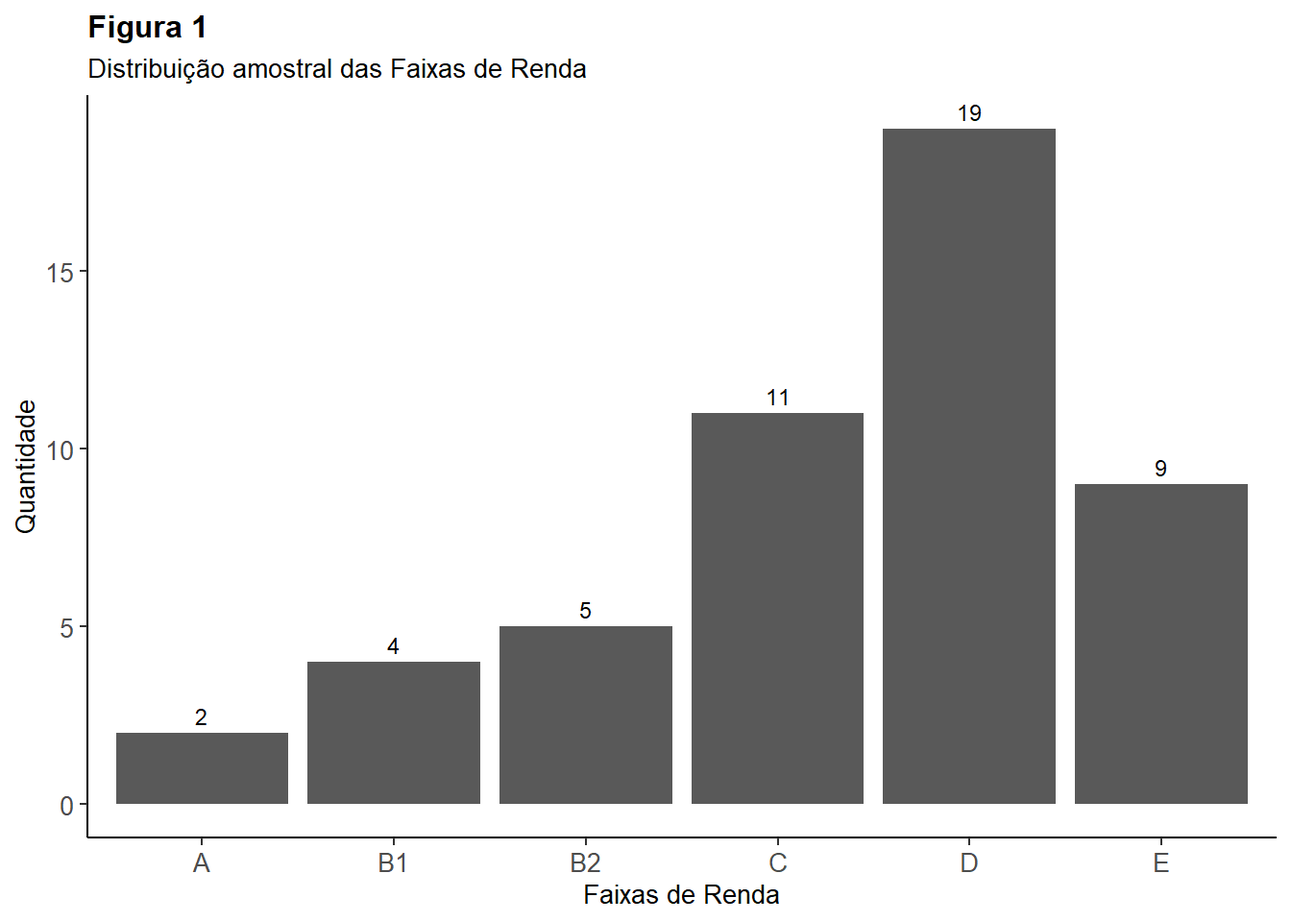
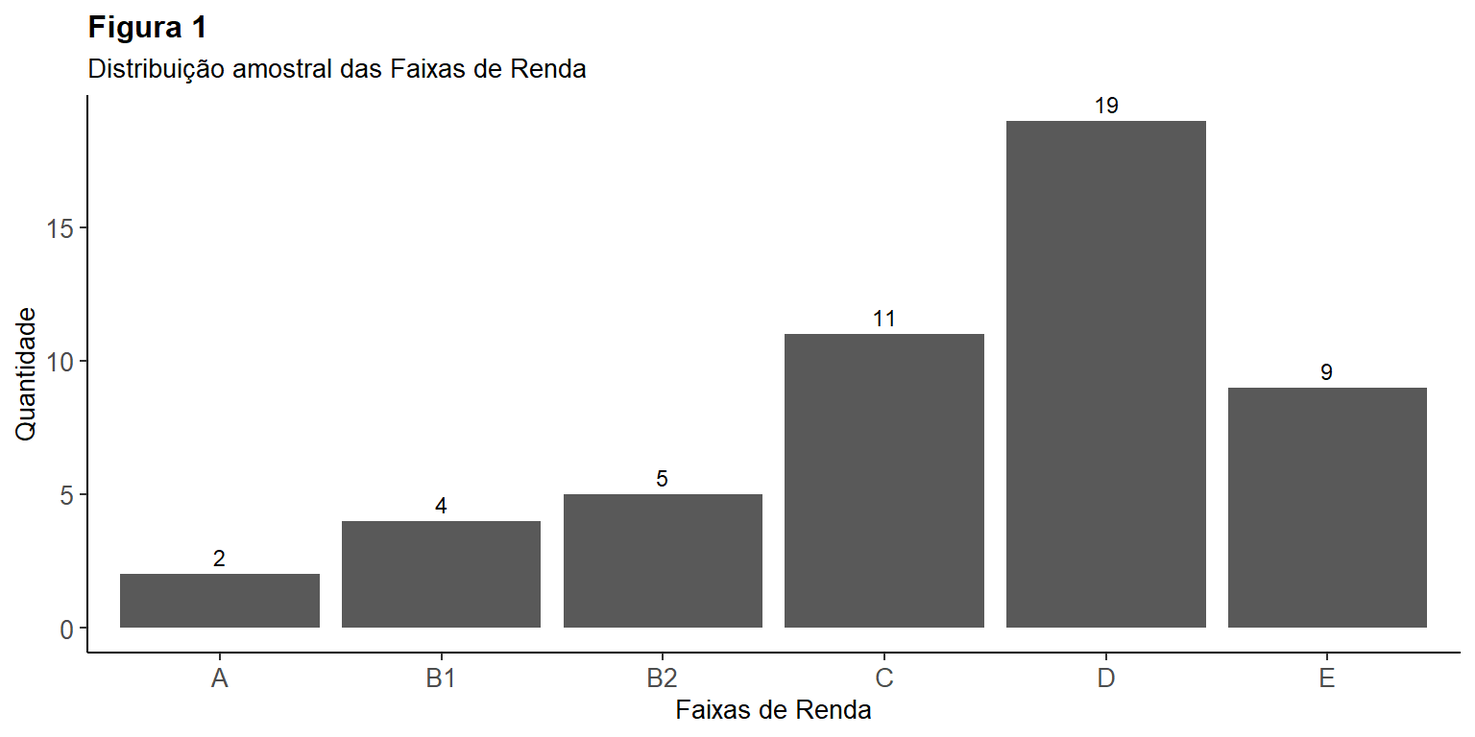
up

diff --git a/introducao_estatistica.html b/introducao_estatistica.html
@@ -128,9 +128,12 @@ code span.wa { color: #60a0b0; font-weight: bold; font-style: italic; } /* Warni
 </header>
 
 <div class="cell">
+<details>
+<summary>Code</summary>
 <div class="sourceCode cell-code" id="cb1"><pre class="sourceCode r code-with-copy"><code class="sourceCode r"><span id="cb1-1"><a href="#cb1-1" aria-hidden="true" tabindex="-1"></a><span class="co"># Instalando pacotes</span></span>
 <span id="cb1-2"><a href="#cb1-2" aria-hidden="true" tabindex="-1"></a><span class="cf">if</span> (<span class="sc">!</span><span class="fu">require</span>(<span class="st">"pacman"</span>)) <span class="fu">install.packages</span>(<span class="st">"pacman"</span>)</span>
-<span id="cb1-3"><a href="#cb1-3" aria-hidden="true" tabindex="-1"></a>pacman<span class="sc">::</span><span class="fu">p_load</span>(tidyverse, here, readxl, janitor, dplyr, magrittr, psych, gt, kableExtra)</span></code><button title="Copy to Clipboard" class="code-copy-button"><i class="bi"></i></button></pre></div>
+<span id="cb1-3"><a href="#cb1-3" aria-hidden="true" tabindex="-1"></a>pacman<span class="sc">::</span><span class="fu">p_load</span>(tidyverse, here, readxl, janitor, dplyr, magrittr, psych, gt, kableExtra, glue, Rlab)</span></code><button title="Copy to Clipboard" class="code-copy-button"><i class="bi"></i></button></pre></div>
+</details>
 </div>
 <section id="lista-de-exercícios" class="level2">
 <h2 class="anchored" data-anchor-id="lista-de-exercícios">Lista de Exercícios</h2>
@@ -139,14 +142,19 @@ code span.wa { color: #60a0b0; font-weight: bold; font-style: italic; } /* Warni
 <li>Na análise de concessão de empréstimos, uma variável potencialmente importante é a renda da pessoa. O gerente de um banco coleta uma base de dados de seus correntistas e extrai a variável “renda mensal (R$)” para 50 pessoas. Embora se trate de uma variável quantitativa, deseja realizar uma análise por meio de tabela de frequências. Neste sentido, pede-se:</li>
 </ol>
 <div class="cell">
+<details>
+<summary>Code</summary>
 <div class="sourceCode cell-code" id="cb2"><pre class="sourceCode r code-with-copy"><code class="sourceCode r"><span id="cb2-1"><a href="#cb2-1" aria-hidden="true" tabindex="-1"></a><span class="co"># Importando o banco</span></span>
 <span id="cb2-2"><a href="#cb2-2" aria-hidden="true" tabindex="-1"></a>path <span class="ot">&lt;-</span> here<span class="sc">::</span><span class="fu">here</span>(<span class="st">"dados"</span>, <span class="st">"Lista de Exercícios - Complementares.xlsx"</span>)</span>
 <span id="cb2-3"><a href="#cb2-3" aria-hidden="true" tabindex="-1"></a>bd1 <span class="ot">&lt;-</span> readxl<span class="sc">::</span><span class="fu">read_excel</span>(path, <span class="at">sheet =</span> <span class="dv">1</span>, <span class="at">range =</span> <span class="fu">cell_cols</span>(<span class="st">"A:B"</span>))</span>
 <span id="cb2-4"><a href="#cb2-4" aria-hidden="true" tabindex="-1"></a>bd1 <span class="ot">&lt;-</span> bd1 <span class="sc">%&gt;%</span> janitor<span class="sc">::</span><span class="fu">clean_names</span>()</span>
 <span id="cb2-5"><a href="#cb2-5" aria-hidden="true" tabindex="-1"></a>bd1 <span class="sc">%&gt;%</span> <span class="fu">glimpse</span>()</span></code><button title="Copy to Clipboard" class="code-copy-button"><i class="bi"></i></button></pre></div>
+</details>
 </div>
 <p>a) Classifique os correntistas em faixas de renda, sendo: 0-2.000; 2.001-4.000; 4.001- 6.000; 6.001-8.000; 8.001-10.000 e 10.001-12.000.</p>
 <div class="cell">
+<details>
+<summary>Code</summary>
 <div class="sourceCode cell-code" id="cb3"><pre class="sourceCode r code-with-copy"><code class="sourceCode r"><span id="cb3-1"><a href="#cb3-1" aria-hidden="true" tabindex="-1"></a>bd1 <span class="ot">&lt;-</span> bd1 <span class="sc">|&gt;</span> </span>
 <span id="cb3-2"><a href="#cb3-2" aria-hidden="true" tabindex="-1"></a>  <span class="fu">mutate</span>(<span class="at">fx_renda =</span> <span class="fu">case_when</span>(</span>
 <span id="cb3-3"><a href="#cb3-3" aria-hidden="true" tabindex="-1"></a>  renda_r <span class="sc">&lt;=</span> <span class="dv">2000</span> <span class="sc">~</span> <span class="st">"E"</span>,</span>
@@ -157,9 +165,12 @@ code span.wa { color: #60a0b0; font-weight: bold; font-style: italic; } /* Warni
 <span id="cb3-8"><a href="#cb3-8" aria-hidden="true" tabindex="-1"></a>  T <span class="sc">~</span> <span class="st">"A"</span></span>
 <span id="cb3-9"><a href="#cb3-9" aria-hidden="true" tabindex="-1"></a>))</span>
 <span id="cb3-10"><a href="#cb3-10" aria-hidden="true" tabindex="-1"></a>bd1 <span class="sc">|&gt;</span> <span class="fu">glimpse</span>()</span></code><button title="Copy to Clipboard" class="code-copy-button"><i class="bi"></i></button></pre></div>
+</details>
 </div>
 <p>b) Em seguida, elabore a tabela de frequências para as faixas de renda acima.</p>
 <div class="cell">
+<details>
+<summary>Code</summary>
 <div class="sourceCode cell-code" id="cb4"><pre class="sourceCode r code-with-copy"><code class="sourceCode r"><span id="cb4-1"><a href="#cb4-1" aria-hidden="true" tabindex="-1"></a>bd1 <span class="sc">|&gt;</span> <span class="fu">group_by</span>(fx_renda) <span class="sc">|&gt;</span></span>
 <span id="cb4-2"><a href="#cb4-2" aria-hidden="true" tabindex="-1"></a>  <span class="fu">summarise</span>(<span class="at">total =</span> <span class="fu">n</span>()) <span class="sc">|&gt;</span> </span>
 <span id="cb4-3"><a href="#cb4-3" aria-hidden="true" tabindex="-1"></a>  ggplot2<span class="sc">::</span><span class="fu">ggplot</span>(<span class="fu">aes</span>(fx_renda, total)) <span class="sc">+</span> </span>
@@ -175,20 +186,26 @@ code span.wa { color: #60a0b0; font-weight: bold; font-style: italic; } /* Warni
 <span id="cb4-13"><a href="#cb4-13" aria-hidden="true" tabindex="-1"></a>  <span class="fu">ggtitle</span>(<span class="at">label =</span> <span class="st">"Figura 1"</span>, <span class="at">subtitle =</span> <span class="st">"Distribuição amostral das Faixas de Renda"</span>) <span class="sc">+</span></span>
 <span id="cb4-14"><a href="#cb4-14" aria-hidden="true" tabindex="-1"></a>  <span class="fu">ylab</span>(<span class="st">"Quantidade"</span>) <span class="sc">+</span> </span>
 <span id="cb4-15"><a href="#cb4-15" aria-hidden="true" tabindex="-1"></a>  <span class="fu">xlab</span>(<span class="st">"Faixas de Renda"</span>)</span></code><button title="Copy to Clipboard" class="code-copy-button"><i class="bi"></i></button></pre></div>
+</details>
 <div class="cell-output-display">
-<p><img src="introducao_estatistica_files/figure-html/ex1_b-1.png" class="img-fluid" width="672"></p>
+<p><img src="introducao_estatistica_files/figure-html/ex1_b-1.png" class="img-fluid" width="768"></p>
 </div>
 </div>
 <p>2.Um analista do mercado acionário coletou os retornos mensais de duas ações que pretende indicar aos seus clientes. Calcule as estatísticas descritivas para as duas variáveis, incluindo o coeficiente de correlação entre os retornos. O banco de dados com os retornos percentuais mensais está na planilha Lista de Exercício Complementares: aba Exercício 2.</p>
 <p>Estatísticas descritivas: média, mediana, moda, quartis, decis, valor mínimo, valor máximo, amplitude, variância, desvio padrão, erro padrão, coeficiente de variação</p>
 <div class="cell">
+<details>
+<summary>Code</summary>
 <div class="sourceCode cell-code" id="cb5"><pre class="sourceCode r code-with-copy"><code class="sourceCode r"><span id="cb5-1"><a href="#cb5-1" aria-hidden="true" tabindex="-1"></a><span class="co"># Importando o banco</span></span>
 <span id="cb5-2"><a href="#cb5-2" aria-hidden="true" tabindex="-1"></a>path <span class="ot">&lt;-</span> here<span class="sc">::</span><span class="fu">here</span>(<span class="st">"dados"</span>, <span class="st">"Lista de Exercícios - Complementares.xlsx"</span>)</span>
 <span id="cb5-3"><a href="#cb5-3" aria-hidden="true" tabindex="-1"></a>bd2 <span class="ot">&lt;-</span> readxl<span class="sc">::</span><span class="fu">read_excel</span>(path, <span class="at">sheet =</span> <span class="dv">2</span>, <span class="at">range =</span> <span class="fu">cell_cols</span>(<span class="st">"A:C"</span>))</span>
 <span id="cb5-4"><a href="#cb5-4" aria-hidden="true" tabindex="-1"></a>bd2 <span class="ot">&lt;-</span> bd2 <span class="sc">%&gt;%</span> janitor<span class="sc">::</span><span class="fu">clean_names</span>()</span>
 <span id="cb5-5"><a href="#cb5-5" aria-hidden="true" tabindex="-1"></a>bd2 <span class="sc">%&gt;%</span> <span class="fu">glimpse</span>()</span></code><button title="Copy to Clipboard" class="code-copy-button"><i class="bi"></i></button></pre></div>
+</details>
 </div>
 <div class="cell">
+<details>
+<summary>Code</summary>
 <div class="sourceCode cell-code" id="cb6"><pre class="sourceCode r code-with-copy"><code class="sourceCode r"><span id="cb6-1"><a href="#cb6-1" aria-hidden="true" tabindex="-1"></a>mode_test <span class="ot">&lt;-</span> <span class="cf">function</span>(x) {</span>
 <span id="cb6-2"><a href="#cb6-2" aria-hidden="true" tabindex="-1"></a>  d <span class="ot">&lt;-</span> <span class="fu">density</span>(x)</span>
 <span id="cb6-3"><a href="#cb6-3" aria-hidden="true" tabindex="-1"></a>  d<span class="sc">$</span>x[<span class="fu">which.max</span>(d<span class="sc">$</span>y)]</span>
@@ -231,31 +248,30 @@ code span.wa { color: #60a0b0; font-weight: bold; font-style: italic; } /* Warni
 <span id="cb6-40"><a href="#cb6-40" aria-hidden="true" tabindex="-1"></a>                                           <span class="st">"intervalo.60%"</span>, <span class="st">"intervalo.70%"</span>, <span class="st">"intervalo.75%"</span>,</span>
 <span id="cb6-41"><a href="#cb6-41" aria-hidden="true" tabindex="-1"></a>                                           <span class="st">"intervalo.80%"</span>, <span class="st">"intervalo.90%"</span>, <span class="st">"intervalo.95%"</span>)))</span>
 <span id="cb6-42"><a href="#cb6-42" aria-hidden="true" tabindex="-1"></a></span>
-<span id="cb6-43"><a href="#cb6-43" aria-hidden="true" tabindex="-1"></a>bd2<span class="fl">.2</span> <span class="sc">|&gt;</span> <span class="fu">mutate</span>(<span class="at">ref =</span> <span class="fu">case_when</span>(</span>
-<span id="cb6-44"><a href="#cb6-44" aria-hidden="true" tabindex="-1"></a>  Valor <span class="sc">&gt;=</span> <span class="dv">0</span> <span class="sc">~</span> <span class="st">"Positivo"</span>,</span>
-<span id="cb6-45"><a href="#cb6-45" aria-hidden="true" tabindex="-1"></a>  Valor <span class="sc">&lt;</span> <span class="dv">0</span> <span class="sc">~</span> <span class="st">"Negativo"</span></span>
-<span id="cb6-46"><a href="#cb6-46" aria-hidden="true" tabindex="-1"></a>)) <span class="sc">|&gt;</span> </span>
-<span id="cb6-47"><a href="#cb6-47" aria-hidden="true" tabindex="-1"></a>  <span class="fu">mutate</span>(<span class="at">acao =</span> <span class="fu">case_when</span>(</span>
-<span id="cb6-48"><a href="#cb6-48" aria-hidden="true" tabindex="-1"></a>  <span class="st">`</span><span class="at">Ação</span><span class="st">`</span> <span class="sc">==</span> <span class="st">"acao_1"</span> <span class="sc">~</span> <span class="st">"Ação 1"</span>,</span>
-<span id="cb6-49"><a href="#cb6-49" aria-hidden="true" tabindex="-1"></a>  <span class="st">`</span><span class="at">Ação</span><span class="st">`</span> <span class="sc">==</span> <span class="st">"acao_2"</span> <span class="sc">~</span> <span class="st">"Ação 2"</span></span>
-<span id="cb6-50"><a href="#cb6-50" aria-hidden="true" tabindex="-1"></a>)) <span class="sc">|&gt;</span> </span>
-<span id="cb6-51"><a href="#cb6-51" aria-hidden="true" tabindex="-1"></a>  ggplot2<span class="sc">::</span><span class="fu">ggplot</span>(<span class="fu">aes</span>(acao, Valor, <span class="at">fill =</span> ref)) <span class="sc">+</span></span>
-<span id="cb6-52"><a href="#cb6-52" aria-hidden="true" tabindex="-1"></a>  <span class="fu">geom_col</span>() <span class="sc">+</span></span>
-<span id="cb6-53"><a href="#cb6-53" aria-hidden="true" tabindex="-1"></a>  <span class="fu">scale_fill_manual</span>(<span class="at">name =</span> <span class="st">"Direção"</span>, <span class="at">values=</span><span class="fu">c</span>(<span class="st">"#f46d43"</span>, <span class="st">"#74add1"</span>)) <span class="sc">+</span></span>
-<span id="cb6-54"><a href="#cb6-54" aria-hidden="true" tabindex="-1"></a>  <span class="fu">facet_wrap</span>(<span class="sc">~</span>(var), <span class="at">scales =</span> <span class="st">"free"</span>, <span class="at">ncol =</span> <span class="dv">5</span>) <span class="sc">+</span></span>
-<span id="cb6-55"><a href="#cb6-55" aria-hidden="true" tabindex="-1"></a>  <span class="fu">theme_bw</span>() <span class="sc">+</span></span>
-<span id="cb6-56"><a href="#cb6-56" aria-hidden="true" tabindex="-1"></a>  <span class="fu">theme</span>(<span class="at">legend.position =</span> <span class="st">"bottom"</span>) <span class="sc">+</span></span>
-<span id="cb6-57"><a href="#cb6-57" aria-hidden="true" tabindex="-1"></a>  <span class="co">#geom_text(aes(label = Valor), size = 2.5)+ </span></span>
-<span id="cb6-58"><a href="#cb6-58" aria-hidden="true" tabindex="-1"></a>  <span class="fu">coord_flip</span>()</span></code><button title="Copy to Clipboard" class="code-copy-button"><i class="bi"></i></button></pre></div>
-<div class="cell-output-display">
-<p><img src="introducao_estatistica_files/figure-html/ex2_a-1.png" class="img-fluid" style="width:100.0%"></p>
-</div>
-<div class="sourceCode cell-code" id="cb7"><pre class="sourceCode r code-with-copy"><code class="sourceCode r"><span id="cb7-1"><a href="#cb7-1" aria-hidden="true" tabindex="-1"></a><span class="co"># bd2.2 |&gt; glimpse()</span></span>
-<span id="cb7-2"><a href="#cb7-2" aria-hidden="true" tabindex="-1"></a></span>
-<span id="cb7-3"><a href="#cb7-3" aria-hidden="true" tabindex="-1"></a><span class="co"># Plotando a tabela</span></span>
-<span id="cb7-4"><a href="#cb7-4" aria-hidden="true" tabindex="-1"></a>table2 <span class="sc">|&gt;</span> <span class="fu">select</span>(<span class="sc">-</span><span class="dv">1</span>) <span class="sc">|&gt;</span> kableExtra<span class="sc">::</span><span class="fu">kbl</span>(<span class="at">caption =</span> <span class="st">"Estatísticas Descritivas Ex. 2"</span>,</span>
-<span id="cb7-5"><a href="#cb7-5" aria-hidden="true" tabindex="-1"></a>                                        <span class="at">col.names =</span> <span class="fu">c</span>(<span class="st">"Ação 1"</span>, <span class="st">"Ação 2"</span>)) <span class="sc">%&gt;%</span></span>
-<span id="cb7-6"><a href="#cb7-6" aria-hidden="true" tabindex="-1"></a>  kableExtra<span class="sc">::</span><span class="fu">kable_classic</span>(<span class="at">full_width =</span> F, <span class="at">html_font =</span> <span class="st">"Cambria"</span>)</span></code><button title="Copy to Clipboard" class="code-copy-button"><i class="bi"></i></button></pre></div>
+<span id="cb6-43"><a href="#cb6-43" aria-hidden="true" tabindex="-1"></a><span class="co"># bd2.2 |&gt; mutate(ref = case_when(</span></span>
+<span id="cb6-44"><a href="#cb6-44" aria-hidden="true" tabindex="-1"></a><span class="co">#   Valor &gt;= 0 ~ "Positivo",</span></span>
+<span id="cb6-45"><a href="#cb6-45" aria-hidden="true" tabindex="-1"></a><span class="co">#   Valor &lt; 0 ~ "Negativo"</span></span>
+<span id="cb6-46"><a href="#cb6-46" aria-hidden="true" tabindex="-1"></a><span class="co"># )) |&gt; </span></span>
+<span id="cb6-47"><a href="#cb6-47" aria-hidden="true" tabindex="-1"></a><span class="co">#   mutate(acao = case_when(</span></span>
+<span id="cb6-48"><a href="#cb6-48" aria-hidden="true" tabindex="-1"></a><span class="co">#   `Ação` == "acao_1" ~ "Ação 1",</span></span>
+<span id="cb6-49"><a href="#cb6-49" aria-hidden="true" tabindex="-1"></a><span class="co">#   `Ação` == "acao_2" ~ "Ação 2"</span></span>
+<span id="cb6-50"><a href="#cb6-50" aria-hidden="true" tabindex="-1"></a><span class="co"># )) |&gt; </span></span>
+<span id="cb6-51"><a href="#cb6-51" aria-hidden="true" tabindex="-1"></a><span class="co">#   ggplot2::ggplot(aes(acao, Valor, fill = ref)) +</span></span>
+<span id="cb6-52"><a href="#cb6-52" aria-hidden="true" tabindex="-1"></a><span class="co">#   geom_col() +</span></span>
+<span id="cb6-53"><a href="#cb6-53" aria-hidden="true" tabindex="-1"></a><span class="co">#   scale_fill_manual(name = "Direção", values=c("#f46d43", "#74add1")) +</span></span>
+<span id="cb6-54"><a href="#cb6-54" aria-hidden="true" tabindex="-1"></a><span class="co">#   facet_wrap(~(var), scales = "free", ncol = 5) +</span></span>
+<span id="cb6-55"><a href="#cb6-55" aria-hidden="true" tabindex="-1"></a><span class="co">#   theme_bw() +</span></span>
+<span id="cb6-56"><a href="#cb6-56" aria-hidden="true" tabindex="-1"></a><span class="co">#   theme(legend.position = "bottom") +</span></span>
+<span id="cb6-57"><a href="#cb6-57" aria-hidden="true" tabindex="-1"></a><span class="co">#   coord_flip()</span></span>
+<span id="cb6-58"><a href="#cb6-58" aria-hidden="true" tabindex="-1"></a></span>
+<span id="cb6-59"><a href="#cb6-59" aria-hidden="true" tabindex="-1"></a></span>
+<span id="cb6-60"><a href="#cb6-60" aria-hidden="true" tabindex="-1"></a><span class="co"># bd2.2 |&gt; glimpse()</span></span>
+<span id="cb6-61"><a href="#cb6-61" aria-hidden="true" tabindex="-1"></a></span>
+<span id="cb6-62"><a href="#cb6-62" aria-hidden="true" tabindex="-1"></a><span class="co"># Plotando a tabela</span></span>
+<span id="cb6-63"><a href="#cb6-63" aria-hidden="true" tabindex="-1"></a>table2 <span class="sc">|&gt;</span> <span class="fu">select</span>(<span class="sc">-</span><span class="dv">1</span>) <span class="sc">|&gt;</span> kableExtra<span class="sc">::</span><span class="fu">kbl</span>(<span class="at">caption =</span> <span class="st">"Estatísticas Descritivas Ex. 2"</span>,</span>
+<span id="cb6-64"><a href="#cb6-64" aria-hidden="true" tabindex="-1"></a>                                        <span class="at">col.names =</span> <span class="fu">c</span>(<span class="st">"Ação 1"</span>, <span class="st">"Ação 2"</span>)) <span class="sc">%&gt;%</span></span>
+<span id="cb6-65"><a href="#cb6-65" aria-hidden="true" tabindex="-1"></a>  kableExtra<span class="sc">::</span><span class="fu">kable_classic</span>(<span class="at">full_width =</span> F, <span class="at">html_font =</span> <span class="st">"Cambria"</span>)</span></code><button title="Copy to Clipboard" class="code-copy-button"><i class="bi"></i></button></pre></div>
+</details>
 <div class="cell-output-display">
 
 <table class=" lightable-classic" style="font-family: Cambria; width: auto !important; margin-left: auto; margin-right: auto;">
@@ -386,6 +402,117 @@ code span.wa { color: #60a0b0; font-weight: bold; font-style: italic; } /* Warni
 </tbody>
 </table>
 
+</div>
+</div>
+<ol start="3" type="1">
+<li>Em certo jogo, probabilidade de vitória (sucesso) a cada nova jogada é 1/6. Se forem feitas 10 jogadas, quais são as seguintes probabilidades:</li>
+</ol>
+<ol type="a">
+<li>Ter vitória em 4 jogadas.</li>
+</ol>
+<p>A fórmula a ser usada é a da Distribuição Normal (p.&nbsp;44 dos slides)</p>
+<div class="cell">
+<details>
+<summary>Code</summary>
+<div class="sourceCode cell-code" id="cb7"><pre class="sourceCode r code-with-copy"><code class="sourceCode r"><span id="cb7-1"><a href="#cb7-1" aria-hidden="true" tabindex="-1"></a><span class="co"># Criando a função binomial</span></span>
+<span id="cb7-2"><a href="#cb7-2" aria-hidden="true" tabindex="-1"></a>dist_bin <span class="ot">&lt;-</span> <span class="cf">function</span>(n,k,p){</span>
+<span id="cb7-3"><a href="#cb7-3" aria-hidden="true" tabindex="-1"></a>  <span class="fu">factorial</span>(n)<span class="sc">/</span>(<span class="fu">factorial</span>(k)<span class="sc">*</span><span class="fu">factorial</span>(n<span class="sc">-</span>k))<span class="sc">*</span>p<span class="sc">^</span>k<span class="sc">*</span>(<span class="dv">1</span><span class="sc">-</span>p)<span class="sc">^</span>(n<span class="sc">-</span>k)</span>
+<span id="cb7-4"><a href="#cb7-4" aria-hidden="true" tabindex="-1"></a>}</span>
+<span id="cb7-5"><a href="#cb7-5" aria-hidden="true" tabindex="-1"></a></span>
+<span id="cb7-6"><a href="#cb7-6" aria-hidden="true" tabindex="-1"></a>p <span class="ot">&lt;-</span> <span class="dv">1</span><span class="sc">/</span><span class="dv">6</span></span>
+<span id="cb7-7"><a href="#cb7-7" aria-hidden="true" tabindex="-1"></a>n <span class="ot">&lt;-</span> <span class="dv">10</span></span>
+<span id="cb7-8"><a href="#cb7-8" aria-hidden="true" tabindex="-1"></a>k <span class="ot">&lt;-</span> <span class="dv">4</span></span>
+<span id="cb7-9"><a href="#cb7-9" aria-hidden="true" tabindex="-1"></a></span>
+<span id="cb7-10"><a href="#cb7-10" aria-hidden="true" tabindex="-1"></a><span class="co"># Aplicando a função</span></span>
+<span id="cb7-11"><a href="#cb7-11" aria-hidden="true" tabindex="-1"></a>glue<span class="sc">::</span><span class="fu">glue</span>({<span class="st">"Resposta:"</span>}, {<span class="st">" "</span>}, janitor<span class="sc">::</span><span class="fu">round_half_up</span>(<span class="fu">dist_bin</span>(n,k,p)<span class="sc">*</span><span class="dv">100</span>,<span class="dv">4</span>), {<span class="st">"%"</span>})</span></code><button title="Copy to Clipboard" class="code-copy-button"><i class="bi"></i></button></pre></div>
+</details>
+<div class="cell-output cell-output-stdout">
+<pre><code>Resposta: 5.4266%</code></pre>
+</div>
+</div>
+<ol start="2" type="a">
+<li>Ter vitória em <strong>pelo menos</strong> 7 jogadas</li>
+</ol>
+<div class="cell">
+<details>
+<summary>Code</summary>
+<div class="sourceCode cell-code" id="cb9"><pre class="sourceCode r code-with-copy"><code class="sourceCode r"><span id="cb9-1"><a href="#cb9-1" aria-hidden="true" tabindex="-1"></a>k1 <span class="ot">&lt;-</span> <span class="dv">7</span></span>
+<span id="cb9-2"><a href="#cb9-2" aria-hidden="true" tabindex="-1"></a>k2 <span class="ot">&lt;-</span> <span class="dv">8</span></span>
+<span id="cb9-3"><a href="#cb9-3" aria-hidden="true" tabindex="-1"></a>k3 <span class="ot">&lt;-</span> <span class="dv">9</span></span>
+<span id="cb9-4"><a href="#cb9-4" aria-hidden="true" tabindex="-1"></a>k4 <span class="ot">&lt;-</span> <span class="dv">10</span></span>
+<span id="cb9-5"><a href="#cb9-5" aria-hidden="true" tabindex="-1"></a><span class="co"># Aplicando a função</span></span>
+<span id="cb9-6"><a href="#cb9-6" aria-hidden="true" tabindex="-1"></a>r1 <span class="ot">&lt;-</span> janitor<span class="sc">::</span><span class="fu">round_half_up</span>(<span class="fu">dist_bin</span>(n,k1,p)<span class="sc">*</span><span class="dv">100</span>,<span class="dv">4</span>)</span>
+<span id="cb9-7"><a href="#cb9-7" aria-hidden="true" tabindex="-1"></a>r2 <span class="ot">&lt;-</span> janitor<span class="sc">::</span><span class="fu">round_half_up</span>(<span class="fu">dist_bin</span>(n,k2,p)<span class="sc">*</span><span class="dv">100</span>,<span class="dv">4</span>)</span>
+<span id="cb9-8"><a href="#cb9-8" aria-hidden="true" tabindex="-1"></a>r3 <span class="ot">&lt;-</span> janitor<span class="sc">::</span><span class="fu">round_half_up</span>(<span class="fu">dist_bin</span>(n,k3,p)<span class="sc">*</span><span class="dv">100</span>,<span class="dv">4</span>)</span>
+<span id="cb9-9"><a href="#cb9-9" aria-hidden="true" tabindex="-1"></a>r4 <span class="ot">&lt;-</span> janitor<span class="sc">::</span><span class="fu">round_half_up</span>(<span class="fu">dist_bin</span>(n,k4,p)<span class="sc">*</span><span class="dv">100</span>,<span class="dv">4</span>)</span>
+<span id="cb9-10"><a href="#cb9-10" aria-hidden="true" tabindex="-1"></a></span>
+<span id="cb9-11"><a href="#cb9-11" aria-hidden="true" tabindex="-1"></a>glue<span class="sc">::</span><span class="fu">glue</span>({<span class="st">"Resposta:"</span>}, {<span class="st">" "</span>}, r1 <span class="sc">+</span> r2 <span class="sc">+</span> r3 <span class="sc">+</span> r4, {<span class="st">"%"</span>})</span></code><button title="Copy to Clipboard" class="code-copy-button"><i class="bi"></i></button></pre></div>
+</details>
+<div class="cell-output cell-output-stdout">
+<pre><code>Resposta: 0.0268%</code></pre>
+</div>
+</div>
+<ol start="4" type="1">
+<li>(Fonte Fávero e Belfiore, 2017 Cap. 5) Suponha que um aluno acerte três questões a cada cinco testes Seja X o número de tentativas até o décimo segundo acerto. Determine a probabilidade de que o aluno precise fazer 20 questões para acertar 12.</li>
+</ol>
+<p>Nessa questão trabalharemos com Distribuião Binimial Negativa (DBN).</p>
+<p>Quando pergunta sobre <strong>quantas rodadas</strong> e não sobre <strong>quantos acertos</strong> estamos diante de casos de DBN.</p>
+<div class="cell">
+<details>
+<summary>Code</summary>
+<div class="sourceCode cell-code" id="cb11"><pre class="sourceCode r code-with-copy"><code class="sourceCode r"><span id="cb11-1"><a href="#cb11-1" aria-hidden="true" tabindex="-1"></a>dist_bin_neg <span class="ot">&lt;-</span> <span class="cf">function</span>(n,k,p,gl){</span>
+<span id="cb11-2"><a href="#cb11-2" aria-hidden="true" tabindex="-1"></a> (<span class="fu">factorial</span>(n<span class="sc">-</span>gl)<span class="sc">/</span>(<span class="fu">factorial</span>(k<span class="sc">-</span>gl)<span class="sc">*</span><span class="fu">factorial</span>((n<span class="sc">-</span>gl)<span class="sc">-</span>(k<span class="sc">-</span>gl))))<span class="sc">*</span>(p<span class="sc">^</span>k)<span class="sc">*</span>((<span class="dv">1</span><span class="sc">-</span>p)<span class="sc">^</span>(n<span class="sc">-</span>k))</span>
+<span id="cb11-3"><a href="#cb11-3" aria-hidden="true" tabindex="-1"></a>}</span>
+<span id="cb11-4"><a href="#cb11-4" aria-hidden="true" tabindex="-1"></a></span>
+<span id="cb11-5"><a href="#cb11-5" aria-hidden="true" tabindex="-1"></a></span>
+<span id="cb11-6"><a href="#cb11-6" aria-hidden="true" tabindex="-1"></a>gl <span class="ot">&lt;-</span> <span class="dv">1</span></span>
+<span id="cb11-7"><a href="#cb11-7" aria-hidden="true" tabindex="-1"></a>p <span class="ot">&lt;-</span> <span class="dv">3</span><span class="sc">/</span><span class="dv">5</span></span>
+<span id="cb11-8"><a href="#cb11-8" aria-hidden="true" tabindex="-1"></a>n <span class="ot">&lt;-</span> <span class="dv">20</span></span>
+<span id="cb11-9"><a href="#cb11-9" aria-hidden="true" tabindex="-1"></a>k <span class="ot">&lt;-</span> <span class="dv">12</span></span>
+<span id="cb11-10"><a href="#cb11-10" aria-hidden="true" tabindex="-1"></a></span>
+<span id="cb11-11"><a href="#cb11-11" aria-hidden="true" tabindex="-1"></a>glue<span class="sc">::</span><span class="fu">glue</span>({<span class="st">"Resposta:"</span>}, {<span class="st">" "</span>}, <span class="fu">round_half_up</span>(<span class="fu">dist_bin_neg</span>(n,k,p,gl)<span class="sc">*</span><span class="dv">100</span>,<span class="dv">2</span>), {<span class="st">"%"</span>})</span></code><button title="Copy to Clipboard" class="code-copy-button"><i class="bi"></i></button></pre></div>
+</details>
+<div class="cell-output cell-output-stdout">
+<pre><code>Resposta: 10.78%</code></pre>
+</div>
+</div>
+<p>Veja agora uma coisa muito mais fácil. Existe uma função no R chamada <em>dnbinomial</em>.</p>
+<div class="cell">
+<details>
+<summary>Code</summary>
+<div class="sourceCode cell-code" id="cb13"><pre class="sourceCode r code-with-copy"><code class="sourceCode r"><span id="cb13-1"><a href="#cb13-1" aria-hidden="true" tabindex="-1"></a>glue<span class="sc">::</span><span class="fu">glue</span>({<span class="st">"Resposta: "</span>}, {<span class="st">""</span>}, <span class="fu">round_half_up</span>(<span class="fu">dnbinom</span>(n<span class="sc">-</span>k, k, p)<span class="sc">*</span><span class="dv">100</span>,<span class="dv">2</span>), {<span class="st">"%"</span>})</span></code><button title="Copy to Clipboard" class="code-copy-button"><i class="bi"></i></button></pre></div>
+</details>
+<div class="cell-output cell-output-stdout">
+<pre><code>Resposta: 10.78%</code></pre>
+</div>
+</div>
+<ol start="5" type="1">
+<li>(Fonte Fávero e Belfiore, 2017 Cap. 5) Suponha que, em determinado hospital, 3 clientes são operados diariamente de cirurgia do estômago, seguindo uma distribuição Poisson. Calcule a probabilidade de que 28 clientes sejam operados na próxima semana (7 dias úteis).</li>
+</ol>
+<div class="cell">
+<details>
+<summary>Code</summary>
+<div class="sourceCode cell-code" id="cb15"><pre class="sourceCode r code-with-copy"><code class="sourceCode r"><span id="cb15-1"><a href="#cb15-1" aria-hidden="true" tabindex="-1"></a>fun_poisson <span class="ot">&lt;-</span> <span class="cf">function</span>(n,k){</span>
+<span id="cb15-2"><a href="#cb15-2" aria-hidden="true" tabindex="-1"></a>  (<span class="fu">exp</span>(<span class="sc">-</span>n)<span class="sc">*</span>(n<span class="sc">^</span>(k)))<span class="sc">/</span><span class="fu">factorial</span>(k)</span>
+<span id="cb15-3"><a href="#cb15-3" aria-hidden="true" tabindex="-1"></a>}</span>
+<span id="cb15-4"><a href="#cb15-4" aria-hidden="true" tabindex="-1"></a></span>
+<span id="cb15-5"><a href="#cb15-5" aria-hidden="true" tabindex="-1"></a>n <span class="ot">&lt;-</span> <span class="dv">3</span></span>
+<span id="cb15-6"><a href="#cb15-6" aria-hidden="true" tabindex="-1"></a>k <span class="ot">&lt;-</span> <span class="dv">28</span><span class="sc">/</span><span class="dv">7</span> <span class="co"># 28 nos proximos 7 dias  = 4 para cada dia</span></span>
+<span id="cb15-7"><a href="#cb15-7" aria-hidden="true" tabindex="-1"></a></span>
+<span id="cb15-8"><a href="#cb15-8" aria-hidden="true" tabindex="-1"></a><span class="fu">fun_poisson</span>(n,k)</span></code><button title="Copy to Clipboard" class="code-copy-button"><i class="bi"></i></button></pre></div>
+</details>
+<div class="cell-output cell-output-stdout">
+<pre><code>[1] 0.1680314</code></pre>
+</div>
+</div>
+<p>Agora, um jeito muito mais fácil. Utilizamos a função <em>dpois</em> (<em>R Native</em>)</p>
+<div class="cell">
+<details>
+<summary>Code</summary>
+<div class="sourceCode cell-code" id="cb17"><pre class="sourceCode r code-with-copy"><code class="sourceCode r"><span id="cb17-1"><a href="#cb17-1" aria-hidden="true" tabindex="-1"></a>glue<span class="sc">::</span><span class="fu">glue</span>({<span class="st">"Resposta: "</span>}, {<span class="st">""</span>}, <span class="fu">round_half_up</span>(<span class="fu">dpois</span>(k,n)<span class="sc">*</span><span class="dv">100</span>,<span class="dv">3</span>), {<span class="st">"%"</span>})</span></code><button title="Copy to Clipboard" class="code-copy-button"><i class="bi"></i></button></pre></div>
+</details>
+<div class="cell-output cell-output-stdout">
+<pre><code>Resposta: 16.803%</code></pre>
 </div>
 </div>
 </section>
